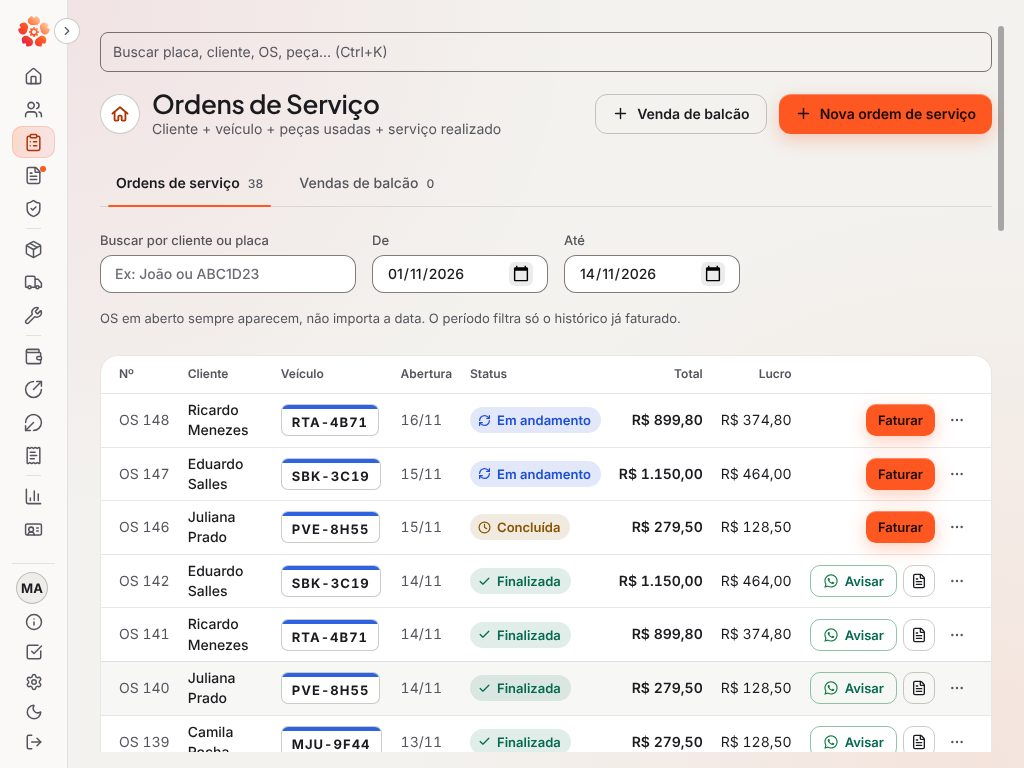
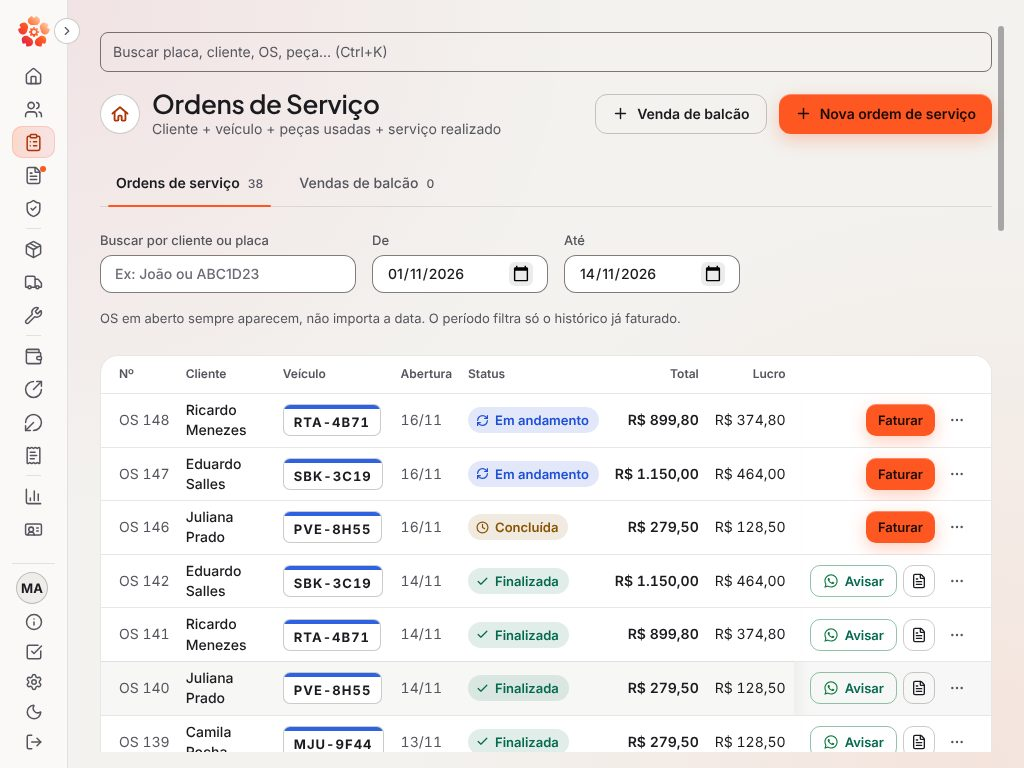
Tarefa 7: em 1024 o nome não quebra no meio e o próximo passo fica à vista
O nome do cliente quebra só entre as palavras; a coluna das ações fica
grudada na direita da tabela (rola de lado, mas o Faturar fica à vista).

Claude-Session: https://claude.ai/code/session_01UYzBNzp9N3MAPdvFVqZD5P

diff --git a/src/pages/ordens-servico/OrdensServicoPage.tsx b/src/pages/ordens-servico/OrdensServicoPage.tsx
@@ -101,6 +101,21 @@ import { VendaBalcaoForm } from "./VendaBalcaoForm";
 // com o zoom de 125% do Windows.
 const SO_EM_TELA_GRANDE = "hidden min-[1600px]:table-cell";
 
+// A coluna do próximo passo fica grudada na direita da tabela (tarefa 7,
+// pedido de 16/11): numa janela estreita (1024 com o menu aberto) a tabela
+// rola de lado, mas o "Faturar" fica sempre à vista. Precisa de fundo próprio,
+// senão o que rola passa por baixo dela aparecendo; ao passar o mouse na
+// linha, ganha por cima o mesmo tom da linha (a cor da linha é transparente).
+// O começo da célula (o respiro da esquerda) é transparente, esmaecendo até a
+// cor do cartão: o que rola por baixo some aos poucos, em vez de aparecer
+// cortado ao meio. Com a tabela cabendo, o respiro é só cartão e não aparece.
+// (Classes escritas por extenso: o Tailwind só gera a classe que acha inteira.)
+const COLUNA_GRUDADA = [
+  "sticky right-0 z-[1] !pl-4",
+  "[background-image:linear-gradient(to_right,transparent,var(--color-cartao)_1rem)]",
+  "group-hover:[background-image:linear-gradient(var(--linha-passar),var(--linha-passar)),linear-gradient(to_right,transparent,var(--color-cartao)_1rem)]",
+].join(" ");
+
 function formatarMoeda(valor: number): string {
   return valor.toLocaleString("pt-BR", { style: "currency", currency: "BRL" });
 }
@@ -1022,12 +1037,16 @@ export function OrdensServicoPage() {
               "B", escolhida por ela pela imagem em 03/10/2026): abaixo de
               1600, Peças e Serviços somem (o Total e o Lucro ficam, e o
               detalhe está dentro da OS); a data perde o ano quando é do ano
-              corrente; nome de cliente comprido quebra até no meio da palavra
-              se precisar. Coluna nova aqui precisa caber na folga —
+              corrente; nome de cliente comprido quebra só entre as palavras
+              (16/11: quebrar no meio da sílaba, "Ricar / do", não serve). Coluna nova aqui precisa caber na folga —
               `npm run largura:telas` confere em 1366, 1536 e 1600.
               A tabela principal rola com a página, sem altura fixa ("O que
               pode crescer", regras, seção 6). */}
-          <table className="sakura-tabela">
+          {/* Respiro das células um pouco menor que o das outras tabelas
+              (8 px, era 9), como já era antes (#425): é o que faz a linha
+              caber em 1024 com o menu encolhido. A primeira e a última
+              coluna mantêm a margem da tabela. */}
+          <table className="sakura-tabela [&_:is(td,th)]:px-2">
             <thead>
               <tr>
                 <th>Nº</th>
@@ -1039,16 +1058,16 @@ export function OrdensServicoPage() {
                 {lista === "os" && <th className={`${SO_EM_TELA_GRANDE} text-right`}>Serviços</th>}
                 <th className="text-right">Total</th>
                 <th className="text-right">Lucro</th>
-                <th>
+                <th className={COLUNA_GRUDADA}>
                   <span className="sr-only">Ações</span>
                 </th>
               </tr>
             </thead>
             <tbody>
               {ordensDaLista.map((ordem) => (
-                <tr key={ordem.id} onClick={() => abrirOrdem(ordem)} className="cursor-pointer">
+                <tr key={ordem.id} onClick={() => abrirOrdem(ordem)} className="group cursor-pointer">
                   <td className="whitespace-nowrap text-texto-2">{nomeDocumento(ordem)}</td>
-                  <td className="font-medium text-texto [overflow-wrap:anywhere]">
+                  <td className="font-medium text-texto [overflow-wrap:break-word]">
                     {ordem.cliente?.nome ?? "—"}
                   </td>
                   {lista === "os" && (
@@ -1079,7 +1098,9 @@ export function OrdensServicoPage() {
                   </td>
                   <td className="text-right">{textoLucro(ordem)}</td>
                   {/* O clique nas ações não abre a OS junto. */}
-                  <td onClick={(e) => e.stopPropagation()}>{acoesDaLinha(ordem)}</td>
+                  <td onClick={(e) => e.stopPropagation()} className={COLUNA_GRUDADA}>
+                    {acoesDaLinha(ordem)}
+                  </td>
                 </tr>
               ))}
             </tbody>

diff --git a/src/pages/ordens-servico/OrcamentosPage.tsx b/src/pages/ordens-servico/OrcamentosPage.tsx
@@ -467,7 +467,7 @@ export function OrcamentosPage() {
                     className="cursor-pointer"
                   >
                     <td className="whitespace-nowrap text-texto-2">{nomeDocumento(ordem)}</td>
-                    <td className="font-medium text-texto [overflow-wrap:anywhere]">
+                    <td className="font-medium text-texto [overflow-wrap:break-word]">
                       {ordem.cliente?.nome ?? "—"}
                     </td>
                     <td className="whitespace-nowrap">

diff --git a/docs/referencia/visual-novo/README.md b/docs/referencia/visual-novo/README.md
@@ -300,6 +300,10 @@ Fotos de antes e depois em `andamento/8-ordens/` (1366×768, escuro e claro).
   aberta pela lista ganhou o selo e o botão novos.
 - **Orçamentos**: abas, filtro, tabela e selo iguais aos da OS; na linha fica o "Enviar" (WhatsApp),
   e o "Mais ações" tem "Abrir o orçamento". O "vencido" virou o selo cinza "Vencido", com relógio.
+- **Em janela estreita** (1024 com o menu aberto, 16/11): o nome do cliente quebra só entre as
+  palavras (nunca no meio da sílaba), e a coluna do próximo passo fica **grudada na direita** da
+  tabela: a tabela rola de lado, mas o "Faturar" fica sempre à vista; o que rola por baixo dela
+  esmaece. Com o menu encolhido, a linha cabe inteira. Nenhuma coluna foi escondida.
 - **Os botões do topo** perderam o "+" do texto: o "+" virou ícone ("Nova ordem de serviço").
 
 ## 7. O menu
